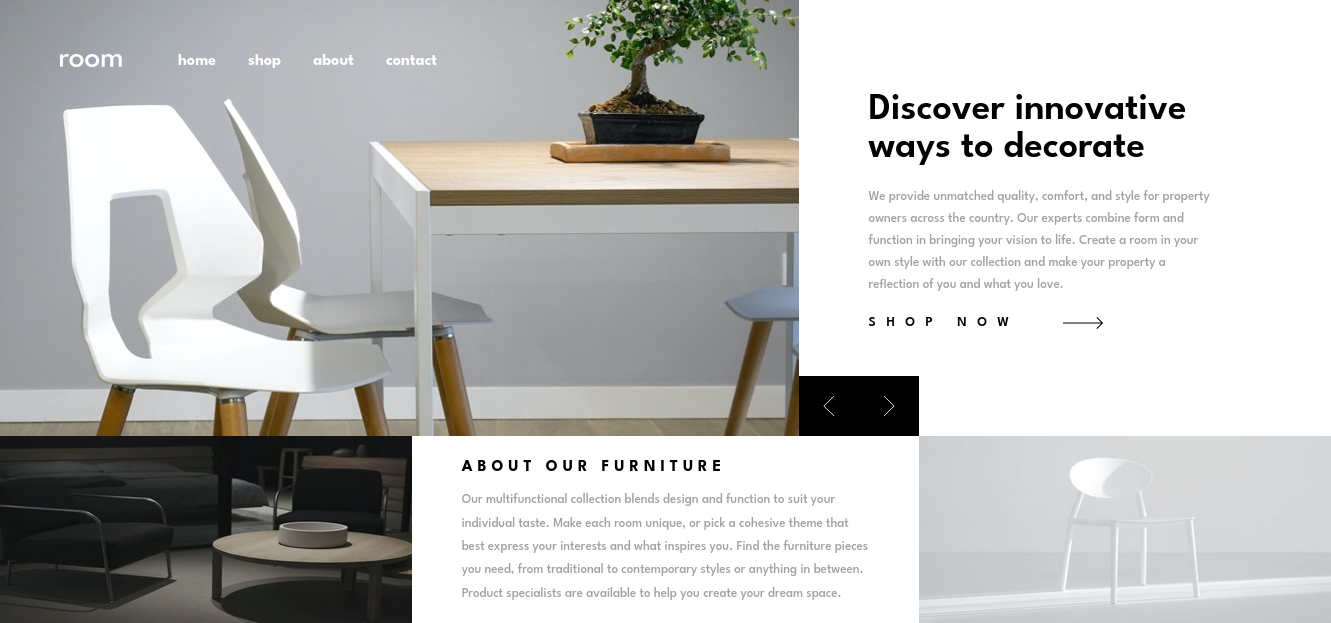
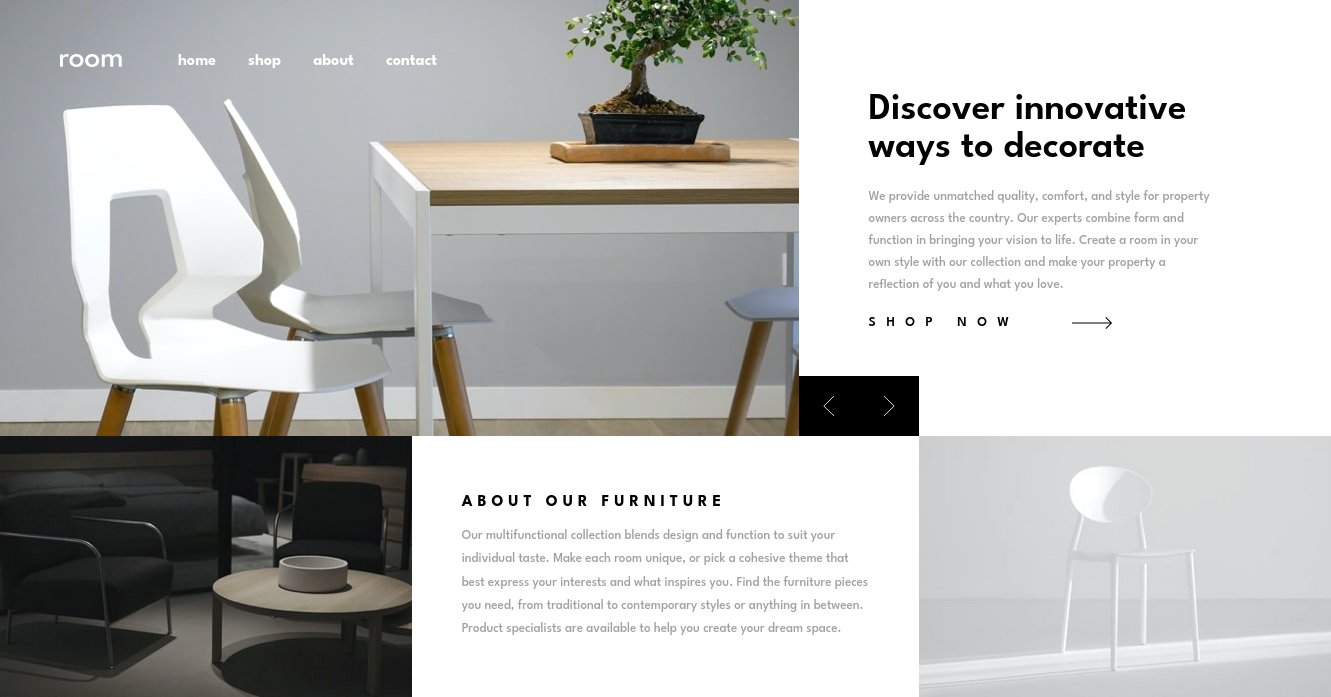
adjusted css units

diff --git a/style.css b/style.css
@@ -187,7 +187,7 @@ a {
 
 .about {
   display: flex;
-  height: 30vh;
+  height: 30%;
 }
 
 .about .dark {
@@ -197,6 +197,9 @@ a {
 .about .about-summary-container {
   width: 39.2%;
   padding: 20px 50px;
+  display: flex;
+  flex-direction: column;
+  justify-content: center;
 }
 
 .about-summary-container .subtitle1 {
